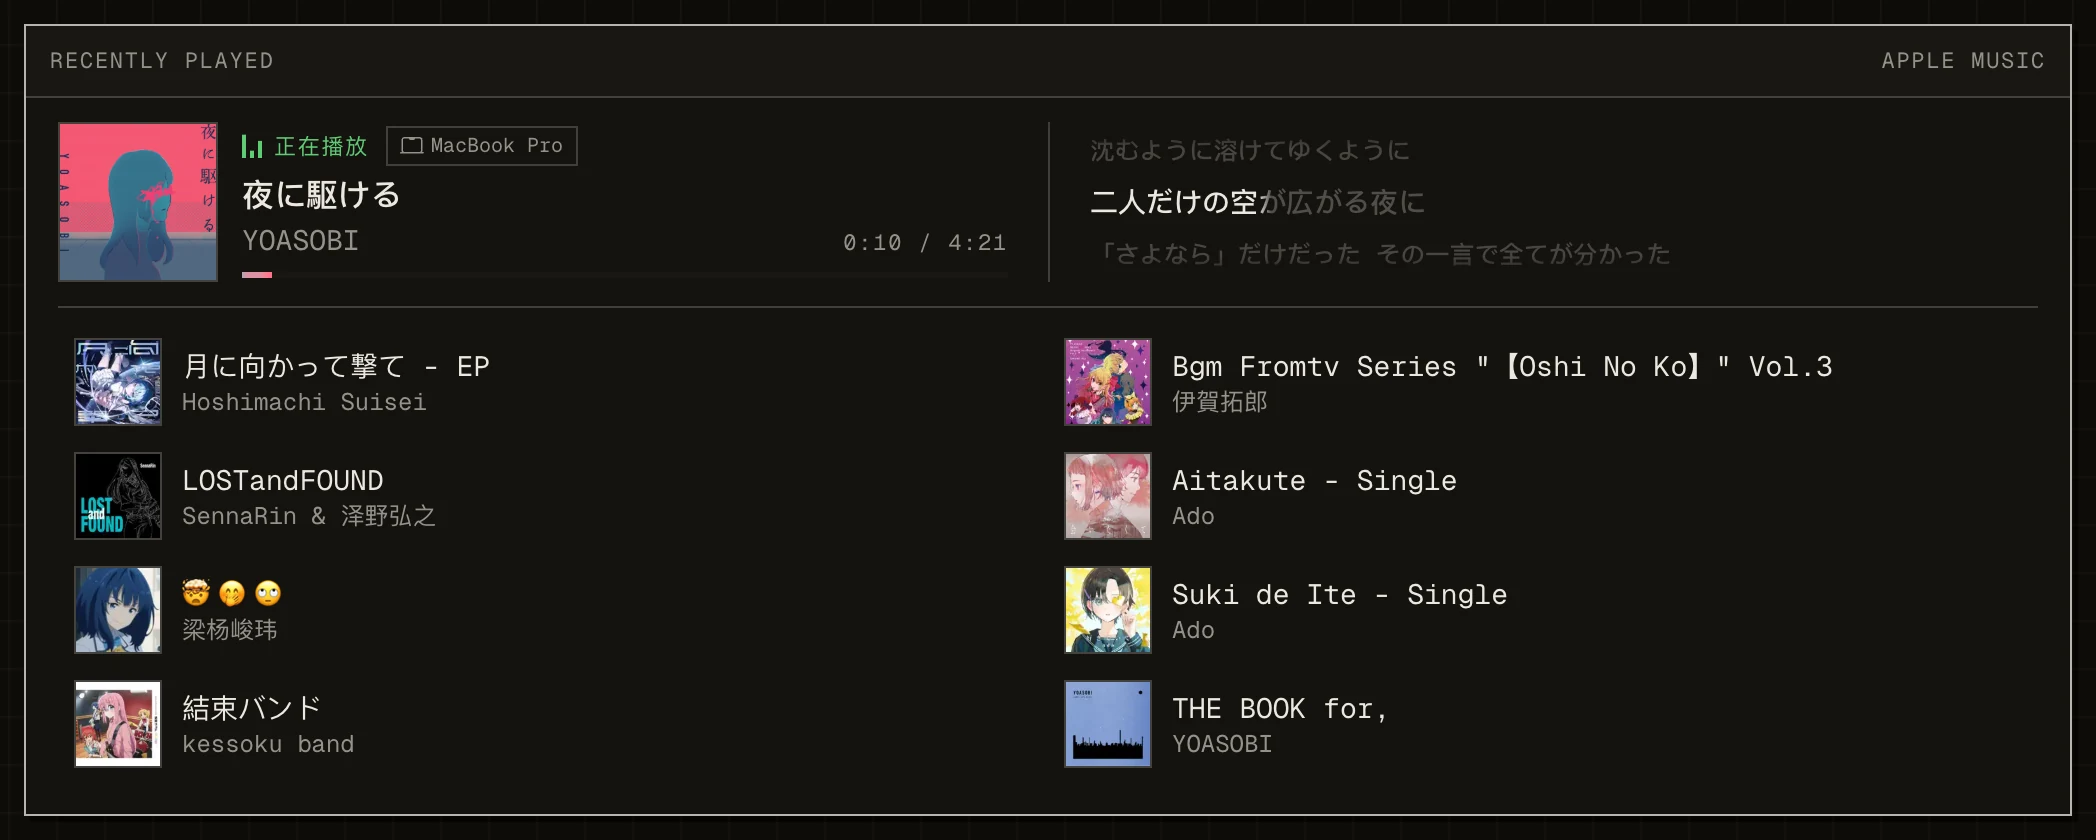
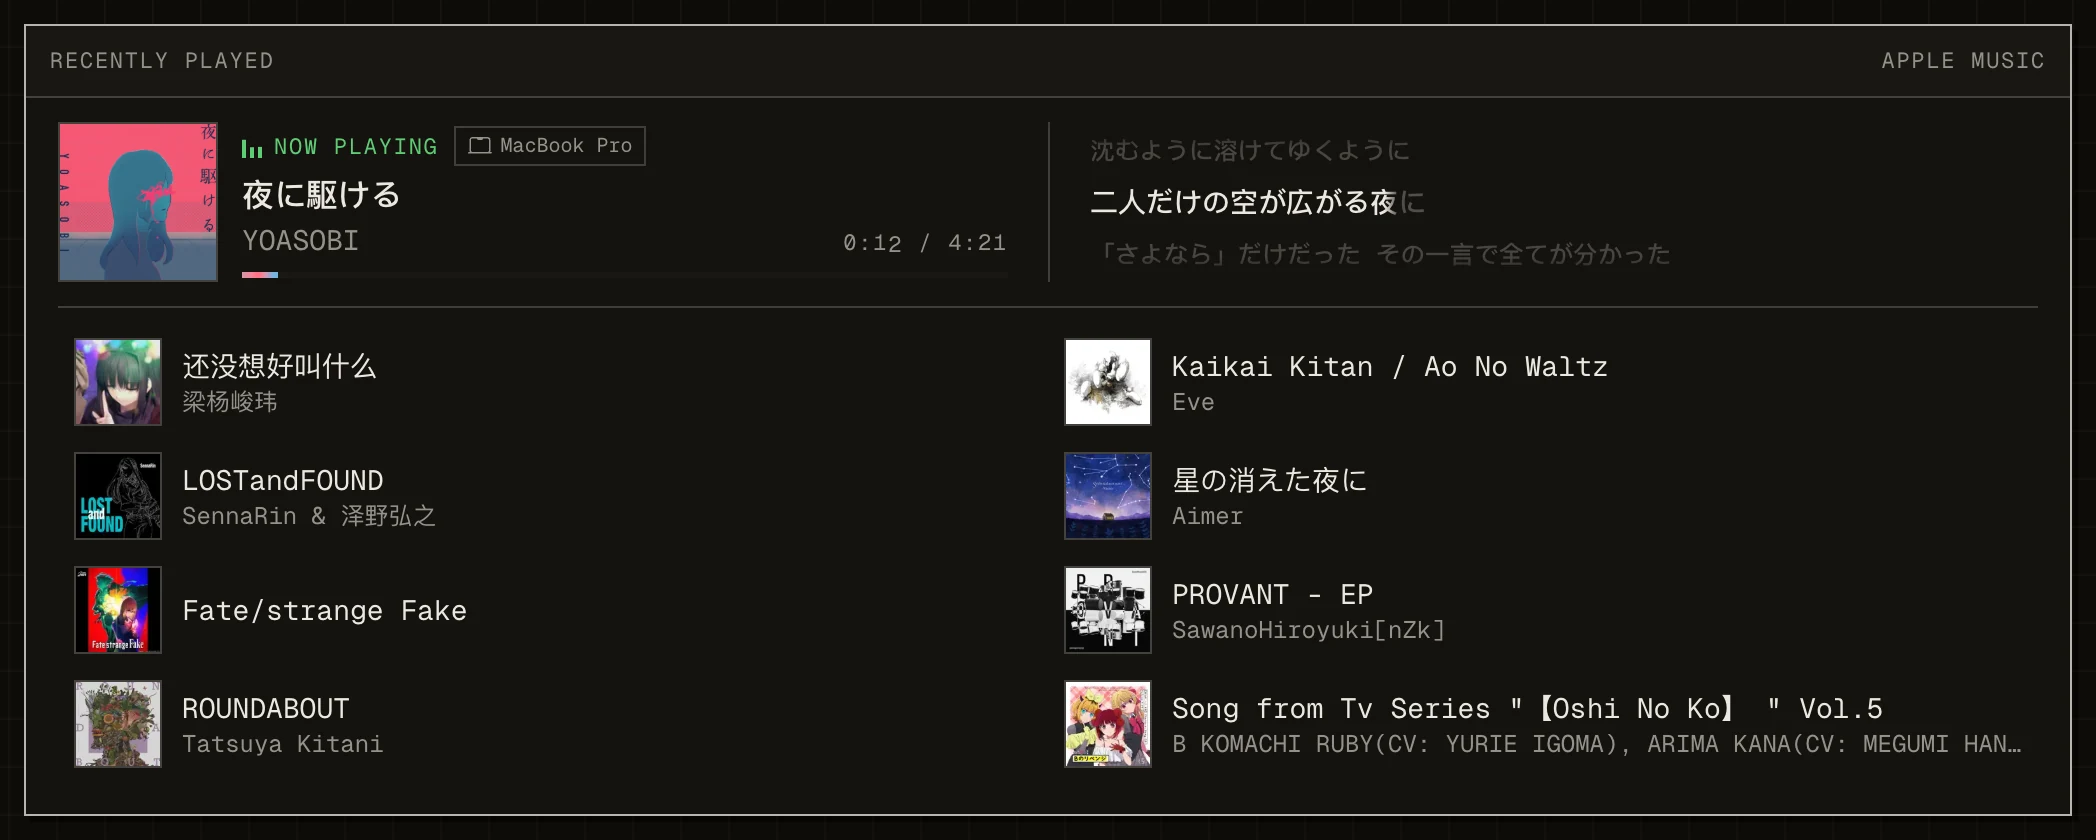
docs(readme): 效果图换成英文界面版，补 Pulse、训练与流量周期
界面 09-17 起全英文，原效果图还是中文标注；重截全部 8 组，另加活动（含最近训练）、
落地节点（含计费周期流量）、Pulse 三组，共 11 组 22 张 WebP 加一条字标 GIF。
卡片表补 Pulse、训练、流量、PageSpeed 与签名状态，状态中枢一段补 KV 读模型与 D1
归档，技术表加 KV · D1 与 Jev；底部游离的「最近训练卡片」小节并入进一步了解。

截图时 3211 / 8788 被别的实例占着：dev:worker / dev:local 改认 DEV_WORKER_PORT /
DEV_SITE_PORT，next.config 认 NEXT_DIST_DIR 绕开 next dev 的同目录单实例锁，
launch.json 加 *-alt 两条；做法记在 docs/README.md。

diff --git a/next.config.ts b/next.config.ts
@@ -52,6 +52,12 @@ const nextConfig: NextConfig = {
     COMMIT_SHA: resolveCommitSha(),
   },
   /**
+   * `next dev` 按 `<distDir>/dev/lock` 保证同一目录只跑一个实例。3211 上那份已经
+   * 在跑时（比如要另起一套接本地 Worker 截效果图），给第二套指一个别的目录
+   * 就能并存；只在本地设，Vercel 不配。见 .claude/launch.json 的 `*-alt`。
+   */
+  distDir: process.env.NEXT_DIST_DIR || ".next",
+  /**
    * 首屏那八份数据走 `use cache` + `cacheTag`，上报进来时按 tag 失效。
    *
    * 开了它之后 `dynamic` / `revalidate` / `fetchCache` **以及 `runtime`** 这几个

diff --git a/docs/README.md b/docs/README.md
@@ -26,7 +26,9 @@
 
 ## 页面效果图
 
-[`screenshots/`](./screenshots/) 是根 README 里的效果图，明暗各一份。用本地 Worker 的假数据注入把平时不显示的状态点亮后截的，夹具在 [`workers/api/dev-fixtures/`](../workers/api/dev-fixtures/)，注入方式见 [`workers/api/README.md`](../workers/api/README.md)。
+[`screenshots/`](./screenshots/) 是根 README 里的效果图，明暗各一份。用本地 Worker 的假数据注入把平时不显示的状态点亮后截的，夹具在 [`workers/api/dev-fixtures/`](../workers/api/dev-fixtures/)，注入方式见 [`workers/api/README.md`](../workers/api/README.md)。截图用无头 Chrome（playwright-core 的 `channel: "chrome"`）开 1280 宽、2 倍像素密度，`colorScheme` 切明暗；裁卡片按元素 boundingBox 外扩 12px 取 `clip`，并把目标之外的兄弟节点 `visibility: hidden`，边距里才不会露出邻居卡片的边；PNG 用项目自带的 sharp 转 WebP（q 88）。
+
+3211 / 8788 被别的实例占着时，用 `.claude/launch.json` 里的 `api-worker-alt`（8790）和 `lyjwpage-local-alt`（3213）另起一套：`dev:worker` / `dev:local` 认 `DEV_WORKER_PORT` / `DEV_SITE_PORT`，`next.config.ts` 认 `NEXT_DIST_DIR`（`next dev` 按 `<distDir>/dev/lock` 保证同目录单实例，第二套要指到 `.next/alt`），`pnpm dev:override` 和截图脚本分别用 `DEV_WORKER_URL` / `SITE_URL` 指过去。
 
 歌词不入库：本地 Worker 没有 Apple Music 凭据，`/api/lyrics` 也不走上游兜底，所以截「正在听」时把生产站的响应包一层 `ok` 直接注入（`song` 取 `listening-now-*.json` 里的 `songId`）：
 
